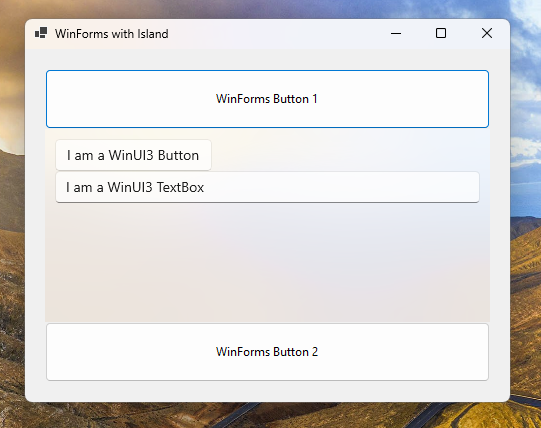
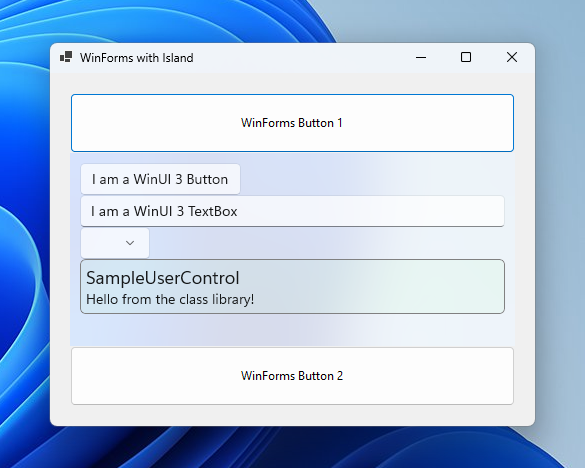
Winforms Xaml Island sample: Add a WinUI Class Library

diff --git a/Samples/Islands/SampleWinUIClassLibrary/SampleUserControl.xaml b/Samples/Islands/SampleWinUIClassLibrary/SampleUserControl.xaml
@@ -1,0 +1,17 @@
+<?xml version="1.0" encoding="utf-8"?>
+<UserControl
+    x:Class="SampleWinUIClassLibrary.SampleUserControl"
+    xmlns="http://schemas.microsoft.com/winfx/2006/xaml/presentation"
+    xmlns:x="http://schemas.microsoft.com/winfx/2006/xaml"
+    xmlns:local="using:SampleWinUIClassLibrary"
+    xmlns:d="http://schemas.microsoft.com/expression/blend/2008"
+    xmlns:mc="http://schemas.openxmlformats.org/markup-compatibility/2006"
+    mc:Ignorable="d">
+
+    <Grid BorderBrush="Gray" BorderThickness="1" Background="#1199ff99" CornerRadius="5">
+        <StackPanel Margin="5">
+            <TextBlock FontSize="18">SampleUserControl</TextBlock>
+            <TextBlock x:Uid="MyMessage"></TextBlock>
+        </StackPanel>
+    </Grid>
+</UserControl>

diff --git a/Samples/Islands/cs-winforms-unpackaged/WinUI3Page.xaml b/Samples/Islands/cs-winforms-unpackaged/WinUI3Page.xaml
@@ -7,10 +7,12 @@
     xmlns:d="http://schemas.microsoft.com/expression/blend/2008"
     xmlns:mc="http://schemas.openxmlformats.org/markup-compatibility/2006"
     mc:Ignorable="d"
+    xmlns:sample="using:SampleWinUIClassLibrary"
     >
     <StackPanel Margin="10">
         <Button x:Name="MyButton" Click="Button_Click">I am a WinUI 3 Button</Button>
         <TextBox Text="I am a WinUI 3 TextBox" />
         <ComboBox ItemsSource="{x:Bind MyItems}" />
+        <sample:SampleUserControl />
     </StackPanel>
 </Page>

diff --git a/Samples/Islands/cs-winforms-unpackaged/XamlApp.cs b/Samples/Islands/cs-winforms-unpackaged/XamlApp.cs
@@ -1,5 +1,7 @@
-using Microsoft.UI.Xaml.Hosting;
+using Microsoft.UI.Xaml.Controls;
+using Microsoft.UI.Xaml.Hosting;
 using Microsoft.UI.Xaml.Markup;
+using Microsoft.UI.Xaml.XamlTypeInfo;
 using System;
 using System.Collections.Generic;
 using System.Linq;
@@ -15,8 +17,13 @@ namespace WinFormsWithIsland
     {
         public XamlApp()
         {
-            _xamlMetaDataProvider = new Microsoft.UI.Xaml.XamlTypeInfo.XamlControlsXamlMetaDataProvider();
+            AddProvider(new XamlControlsXamlMetaDataProvider());
             _windowsXamlManager = WindowsXamlManager.InitializeForCurrentThread();
+        }
+
+        public void AddProvider(IXamlMetadataProvider provider)
+        {
+            _providers.Add(provider);
         }
 
         override protected void OnLaunched(Microsoft.UI.Xaml.LaunchActivatedEventArgs args)
@@ -24,22 +31,44 @@ namespace WinFormsWithIsland
             this.Resources.MergedDictionaries.Add(new Microsoft.UI.Xaml.Controls.XamlControlsResources());
         }
 
-        IXamlType IXamlMetadataProvider.GetXamlType(string fullName)
+        IXamlType? IXamlMetadataProvider.GetXamlType(string fullName)
         {
-            return _xamlMetaDataProvider.GetXamlType(fullName);
+            foreach (var provider in _providers)
+            {
+                var xamlType = provider.GetXamlType(fullName);
+                if (xamlType != null)
+                {
+                    return xamlType;
+                }
+            }
+            return null;
         }
 
-        IXamlType IXamlMetadataProvider.GetXamlType(System.Type type)
+        IXamlType? IXamlMetadataProvider.GetXamlType(System.Type type)
         {
-            return _xamlMetaDataProvider.GetXamlType(type);
+            foreach (var provider in _providers)
+            {
+                var xamlType = provider.GetXamlType(type);
+                if (xamlType != null)
+                {
+                    return xamlType;
+                }
+            }
+            return null;
         }
 
         XmlnsDefinition[] IXamlMetadataProvider.GetXmlnsDefinitions()
         {
-            return _xamlMetaDataProvider.GetXmlnsDefinitions();
+            var definitions = new List<XmlnsDefinition>();
+            foreach (var provider in _providers)
+            {
+                var providerDefinitions = provider.GetXmlnsDefinitions();
+                definitions.AddRange(providerDefinitions);
+            }
+            return definitions.ToArray();
         }
 
         WindowsXamlManager _windowsXamlManager;
-        IXamlMetadataProvider _xamlMetaDataProvider;
+        List<IXamlMetadataProvider> _providers = new List<IXamlMetadataProvider>();
     }
 }

diff --git a/Samples/Islands/cs-winforms-unpackaged/Program.cs b/Samples/Islands/cs-winforms-unpackaged/Program.cs
@@ -17,6 +17,11 @@ namespace WinFormsWithIslandApp
             // Island-support: This is necessary for Xaml controls, resources, and metatdata to work correctly.
             var xamlApp = new XamlApp();
 
+            // Island-support: We need to add the SampleWinUIClassLibrary's XamlMetaDataProvider so that the Xaml parser
+            // can find the Xaml controls in the SampleWinUIClassLibrary (like "SampleUserControl").
+            // Without this, you will get a XamlParseException.
+            xamlApp.AddProvider(new SampleWinUIClassLibrary.SampleWinUIClassLibrary_XamlTypeInfo.XamlMetaDataProvider());
+
             // Island-support: This allows the WindowsAppSDK UI stack to process messages before the WinForms message loop.
             WindowsAppSdkHelper.EnableContentPreTranslateMessageInEventLoop();
 

diff --git a/Samples/Islands/SampleWinUIClassLibrary/SampleUserControl.xaml.cs b/Samples/Islands/SampleWinUIClassLibrary/SampleUserControl.xaml.cs
@@ -1,0 +1,28 @@
+using Microsoft.UI.Xaml;
+using Microsoft.UI.Xaml.Controls;
+using Microsoft.UI.Xaml.Controls.Primitives;
+using Microsoft.UI.Xaml.Data;
+using Microsoft.UI.Xaml.Input;
+using Microsoft.UI.Xaml.Media;
+using Microsoft.UI.Xaml.Navigation;
+using System;
+using System.Collections.Generic;
+using System.IO;
+using System.Linq;
+using System.Runtime.InteropServices.WindowsRuntime;
+using Windows.Foundation;
+using Windows.Foundation.Collections;
+
+// To learn more about WinUI, the WinUI project structure,
+// and more about our project templates, see: http://aka.ms/winui-project-info.
+
+namespace SampleWinUIClassLibrary
+{
+    public sealed partial class SampleUserControl : UserControl
+    {
+        public SampleUserControl()
+        {
+            InitializeComponent();
+        }
+    }
+}

diff --git a/Samples/Islands/README.md b/Samples/Islands/README.md
@@ -102,6 +102,10 @@ This sample is an "unpackaged" app, so it will run like a WinForms/Win32 app doe
 
 This sample uses Windows App SDK as a "framework package".  This means that the Windows App SDK runtime must be installed for it to run.
 
+It also shows how to use a UserControl named "SampleUserControl" that's defined in a separate "WinUI Class Library" DLL called
+"SampleWinUIClassLibrary".  To make this work, the XamlApp type knows how to route Xaml metadata requests to the SampleWinUIClassLibrary's
+XamlMetadataProvider object.
+
 ## Prerequisites
 
 * See [System requirements for Windows app development](https://docs.microsoft.com/windows/apps/windows-app-sdk/system-requirements).
